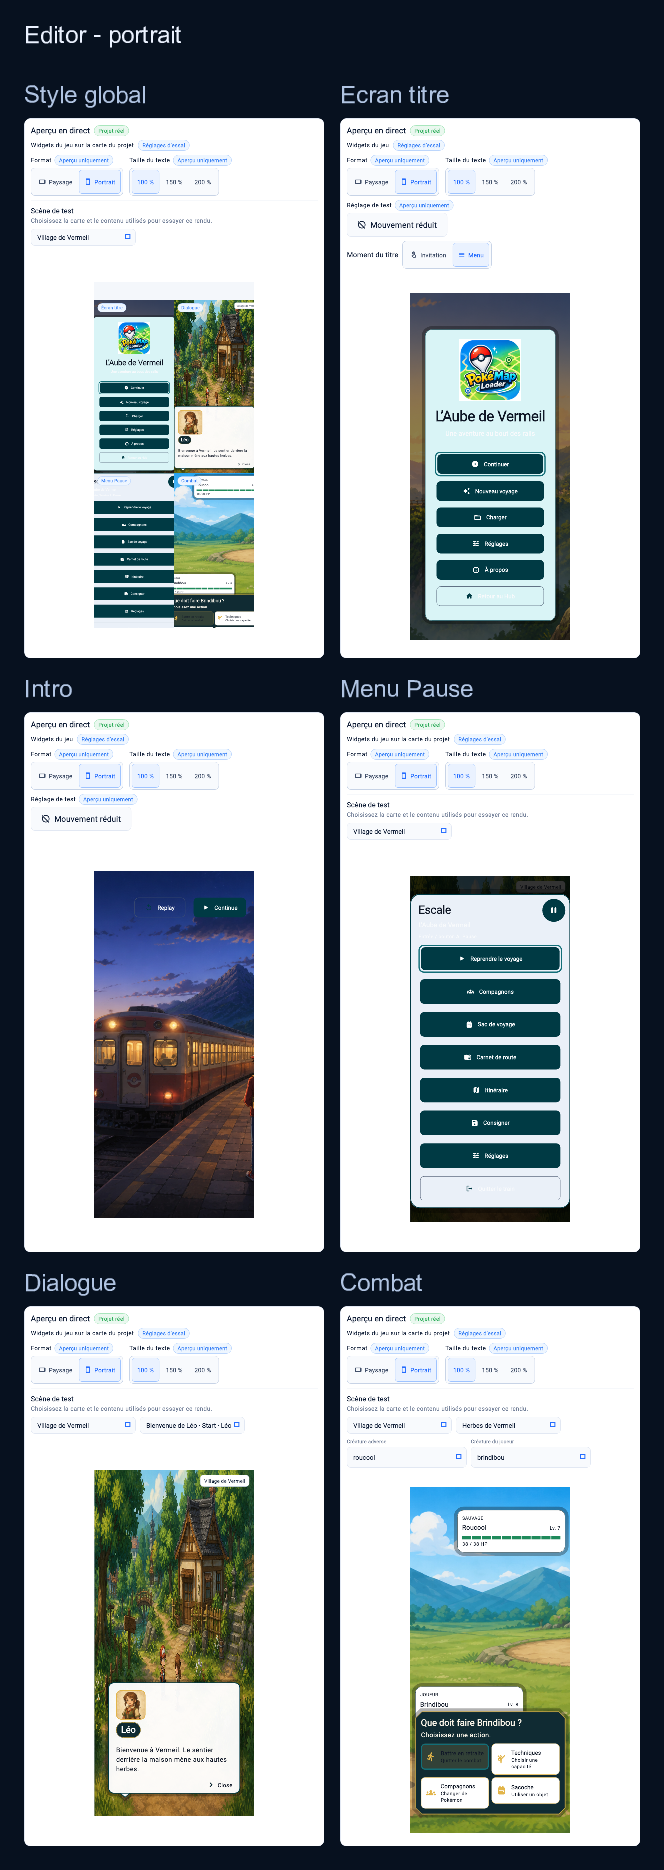
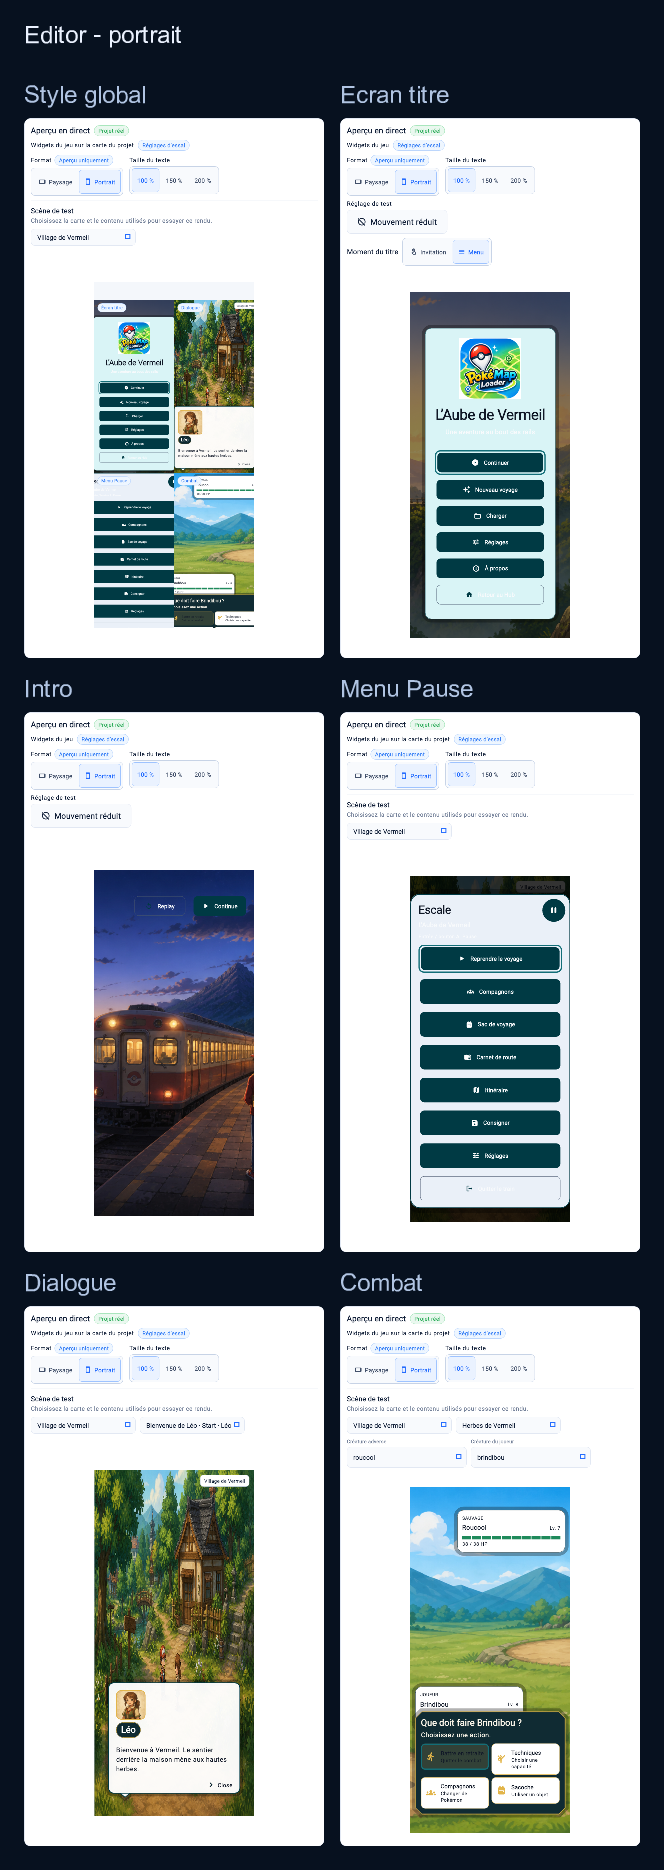
feat(personalization): align studio with visual target

diff --git a/packages/map_editor/lib/src/features/personalization/presentation/inspectors/battle/battle_commands_section.dart b/packages/map_editor/lib/src/features/personalization/presentation/inspectors/battle/battle_commands_section.dart
@@ -22,6 +22,7 @@ class BattleCommandsSection extends StatefulWidget {
 
 class _BattleCommandsSectionState extends State<BattleCommandsSection> {
   var _group = _BattleCommandsGroup.organization;
+  var _selectedCommand = ProjectBattleCommandId.fight;
 
   ProjectBattlePresentationProfile get profile => widget.profile;
   ProjectSemanticThemeProfile get inheritedTheme => widget.inheritedTheme;
@@ -155,15 +156,32 @@ class _BattleCommandsSectionState extends State<BattleCommandsSection> {
             children: <Widget>[
               Text('Actions', style: Theme.of(context).textTheme.titleSmall),
               const SizedBox(height: 8),
-              for (
-                var index = 0;
-                index < profile.effectiveCommands.length;
-                index++
-              ) ...<Widget>[
-                _commandRow(index),
-                if (index != profile.effectiveCommands.length - 1)
-                  const SizedBox(height: 8),
-              ],
+              Wrap(
+                spacing: 8,
+                runSpacing: 8,
+                children: <Widget>[
+                  for (final command in profile.effectiveCommands)
+                    PokeMapButton(
+                      key: ValueKey<String>(
+                        'battle-command-select-${command.id.name}',
+                      ),
+                      size: PokeMapButtonSize.small,
+                      variant: PokeMapButtonVariant.secondary,
+                      isSelected: command.id == _selectedCommand,
+                      onPressed: () =>
+                          setState(() => _selectedCommand = command.id),
+                      child: Text(
+                        command.label ?? _commandDefaultLabel(command.id),
+                      ),
+                    ),
+                ],
+              ),
+              const SizedBox(height: 12),
+              _commandRow(
+                profile.effectiveCommands.indexWhere(
+                  (command) => command.id == _selectedCommand,
+                ),
+              ),
             ],
           ),
         ),

diff --git a/packages/map_editor/lib/src/features/personalization/presentation/personalization_preview_controls.dart b/packages/map_editor/lib/src/features/personalization/presentation/personalization_preview_controls.dart
@@ -35,6 +35,7 @@ class PersonalizationPreviewControls extends StatelessWidget {
       children: <Widget>[
         _PreviewOnlySetting(
           label: 'Format',
+          previewOnly: true,
           child: PokeMapSegmentedTabs(
             minimumHeight: 48,
             tabs: <PokeMapSegmentedTab>[
@@ -116,17 +117,22 @@ class PersonalizationPreviewControls extends StatelessWidget {
 }
 
 class _PreviewOnlySetting extends StatelessWidget {
-  const _PreviewOnlySetting({required this.label, required this.child});
+  const _PreviewOnlySetting({
+    required this.label,
+    required this.child,
+    this.previewOnly = false,
+  });
 
   final String label;
   final Widget child;
+  final bool previewOnly;
 
   @override
   Widget build(BuildContext context) => Column(
     mainAxisSize: MainAxisSize.min,
     crossAxisAlignment: CrossAxisAlignment.start,
     children: <Widget>[
-      _PreviewOnlyLabel(label: label),
+      _PreviewOnlyLabel(label: label, previewOnly: previewOnly),
       const SizedBox(height: 4),
       child,
     ],
@@ -151,9 +157,10 @@ class _PreviewOnlyAction extends StatelessWidget {
 }
 
 class _PreviewOnlyLabel extends StatelessWidget {
-  const _PreviewOnlyLabel({required this.label});
+  const _PreviewOnlyLabel({required this.label, this.previewOnly = false});
 
   final String label;
+  final bool previewOnly;
 
   @override
   Widget build(BuildContext context) => Wrap(
@@ -162,10 +169,11 @@ class _PreviewOnlyLabel extends StatelessWidget {
     crossAxisAlignment: WrapCrossAlignment.center,
     children: <Widget>[
       Text(label, style: Theme.of(context).textTheme.labelMedium),
-      const PokeMapBadge(
-        label: 'Aperçu uniquement',
-        variant: PokeMapBadgeVariant.info,
-      ),
+      if (previewOnly)
+        const PokeMapBadge(
+          label: 'Aperçu uniquement',
+          variant: PokeMapBadgeVariant.info,
+        ),
     ],
   );
 }

diff --git a/packages/map_editor/test/personalization/personalization_studio_shell_test.dart b/packages/map_editor/test/personalization/personalization_studio_shell_test.dart
@@ -23,7 +23,7 @@ void main() {
     );
   });
 
-  testWidgets('uses 260 and 360 pixel panes at 1600 pixels', (tester) async {
+  testWidgets('uses 190 and 290 pixel panes at 1600 pixels', (tester) async {
     await _pumpShell(tester, const Size(1600, 900));
 
     expect(find.text('Personalization Studio'), findsNothing);
@@ -35,7 +35,7 @@ void main() {
             ),
           )
           .width,
-      260,
+      190,
     );
     expect(
       tester
@@ -45,12 +45,12 @@ void main() {
             ),
           )
           .width,
-      360,
+      290,
     );
     expect(find.byKey(const ValueKey<String>('test-preview')), findsOneWidget);
   });
 
-  testWidgets('uses 220 and 320 pixel panes at 1200 pixels', (tester) async {
+  testWidgets('uses 180 and 280 pixel panes at 1200 pixels', (tester) async {
     await _pumpShell(tester, const Size(1200, 800));
 
     expect(
@@ -61,7 +61,7 @@ void main() {
             ),
           )
           .width,
-      220,
+      180,
     );
     expect(
       tester
@@ -71,7 +71,7 @@ void main() {
             ),
           )
           .width,
-      320,
+      280,
     );
   });
 

diff --git a/packages/map_editor/test/personalization/personalization_studio_shell_golden_test.dart b/packages/map_editor/test/personalization/personalization_studio_shell_golden_test.dart
@@ -53,6 +53,10 @@ void main() {
 
       final shell = find.byType(PersonalizationStudioWorkspace);
       expect(shell, findsOneWidget);
+      expect(
+        find.text('Sauvegarde automatique', findRichText: true),
+        findsOneWidget,
+      );
       expect(tester.takeException(), isNull);
       await expectLater(
         shell,
@@ -164,6 +168,10 @@ void main() {
 
     final editor = find.byType(EditorShellPage);
     expect(editor, findsOneWidget);
+    final preview = find.byKey(
+      const ValueKey<String>('personalization-studio-preview-pane'),
+    );
+    expect(tester.getSize(preview).width, greaterThanOrEqualTo(700));
     expect(find.textContaining('Chargement des cartes'), findsNothing);
     expect(find.textContaining('Bienvenue à Vermeil'), findsWidgets);
     expect(
@@ -176,6 +184,8 @@ void main() {
       find.byKey(const ValueKey<String>('personalization-dialogue-portrait')),
       findsWidgets,
     );
+    expect(find.text('Aperçu uniquement'), findsOneWidget);
+    expect(find.text('Réglage de test'), findsNothing);
     expect(tester.takeException(), isNull);
     await expectLater(
       editor,

diff --git a/packages/map_editor/test/personalization/personalization_studio_workspace_test.dart b/packages/map_editor/test/personalization/personalization_studio_workspace_test.dart
@@ -65,7 +65,12 @@ void main() {
       await tester.pumpAndSettle();
 
       expect(tester.widget<PokeMapButton>(preset).onPressed, isNotNull);
-      expect(preset.hitTestable(), findsOneWidget);
+      await _dragUntilHitTestable(
+        tester,
+        preset,
+        _detailScrollable('branding'),
+        dy: -400,
+      );
       await tester.tap(preset.hitTestable());
       await tester.pump();
 
@@ -307,9 +312,16 @@ void main() {
           .initializePersonalizationStudioSession();
       await tester.pump();
 
-      await tester.tap(
-        find.byKey(const ValueKey<String>('personalization-preset-cinematic')),
+      final cinematicPreset = find.byKey(
+        const ValueKey<String>('personalization-preset-cinematic'),
       );
+      await _dragUntilHitTestable(
+        tester,
+        cinematicPreset,
+        _detailScrollable('branding'),
+        dy: -400,
+      );
+      await tester.tap(cinematicPreset.hitTestable());
       await tester.pump();
       await tester.pump(const Duration(milliseconds: 20));
 

diff --git a/packages/map_editor/test/personalization/personalization_battle_inspector_test.dart b/packages/map_editor/test/personalization/personalization_battle_inspector_test.dart
@@ -214,6 +214,32 @@ void main() {
       findsNothing,
     );
 
+    await tester.tap(
+      find.byKey(const ValueKey<String>('battle-command-group-actions')),
+    );
+    await tester.pumpAndSettle();
+    expect(
+      find.byKey(const ValueKey<String>('battle-command-label-fight')),
+      findsOneWidget,
+    );
+    expect(
+      find.byKey(const ValueKey<String>('battle-command-label-bag')),
+      findsNothing,
+    );
+
+    await tester.tap(
+      find.byKey(const ValueKey<String>('battle-command-select-bag')),
+    );
+    await tester.pumpAndSettle();
+    expect(
+      find.byKey(const ValueKey<String>('battle-command-label-fight')),
+      findsNothing,
+    );
+    expect(
+      find.byKey(const ValueKey<String>('battle-command-label-bag')),
+      findsOneWidget,
+    );
+
     await tester.tap(find.byKey(const ValueKey<String>('battle-section-hud')));
     await tester.pumpAndSettle();
     expect(

diff --git a/packages/map_editor/lib/src/features/personalization/presentation/personalization_studio_workspace.dart b/packages/map_editor/lib/src/features/personalization/presentation/personalization_studio_workspace.dart
@@ -2172,8 +2172,11 @@ class _PersonalizationStudioWorkspaceState
                         : null,
                     child: const Text('Rétablir'),
                   ),
-                  SizedBox(
-                    width: 230,
+                  ConstrainedBox(
+                    constraints: const BoxConstraints(
+                      minWidth: 230,
+                      maxWidth: 270,
+                    ),
                     child: PokeMapToggleTile(
                       key: const ValueKey<String>(
                         'personalization-studio-autosave',

diff --git a/packages/map_editor/lib/src/features/personalization/presentation/personalization_studio_shell.dart b/packages/map_editor/lib/src/features/personalization/presentation/personalization_studio_shell.dart
@@ -39,8 +39,8 @@ class PersonalizationStudioShell extends StatelessWidget {
 
   Widget _layout(BuildContext context, double width) {
     if (width >= 1100) {
-      final navigationWidth = width >= 1440 ? 260.0 : 220.0;
-      final inspectorWidth = width >= 1440 ? 360.0 : 320.0;
+      final navigationWidth = width >= 1440 ? 190.0 : 180.0;
+      final inspectorWidth = width >= 1440 ? 290.0 : 280.0;
       return Row(
         crossAxisAlignment: CrossAxisAlignment.stretch,
         children: <Widget>[
